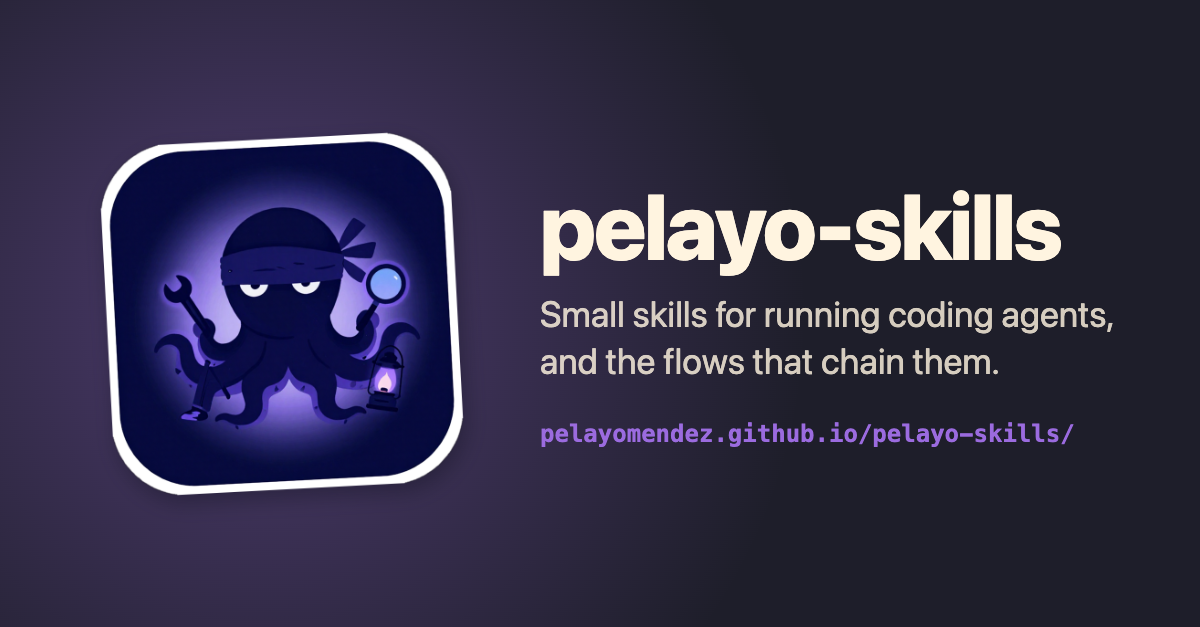
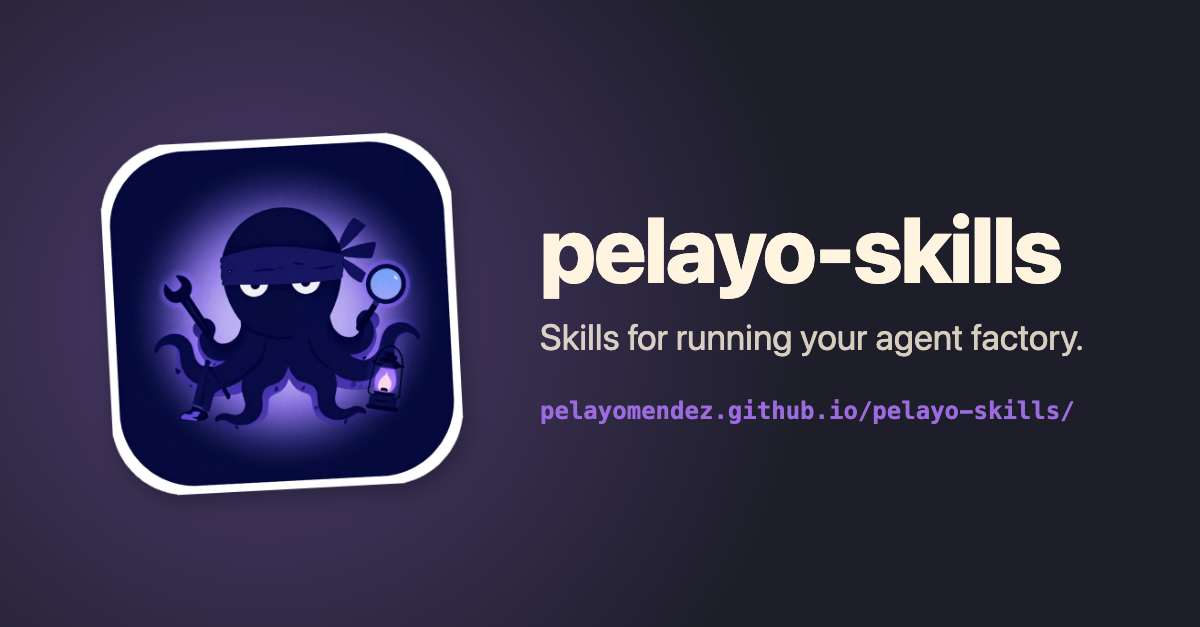
docs: frame the collection as skills for running an agent factory

Changed region(s): [[0.4317, 0.303, 0.925, 0.6061], [0.4317, 0.6364, 0.8942, 0.7273]]

diff --git a/docs/index.html b/docs/index.html
@@ -3,11 +3,11 @@
 <head>
   <meta charset="utf-8">
   <meta name="viewport" content="width=device-width, initial-scale=1">
-  <title>pelayo-skills · instructions and skills for coding agents</title>
-  <meta name="description" content="Small skills for running coding agents, and flows that chain them: a reporting style, a permission charter, backlog pruning and ordering, claim checks by a fresh agent, companion and overnight flows, and upkeep for the setup itself.">
+  <title>pelayo-skills · skills for running your agent factory</title>
+  <meta name="description" content="Skills for running your agent factory: plan the work, hand it out, check it, watch the line, hand over shifts, keep permissions in a charter and the setup tuned.">
   <link rel="icon" href="icon.png">
   <meta property="og:title" content="pelayo-skills">
-  <meta property="og:description" content="Small skills for running coding agents, and the flows that chain them.">
+  <meta property="og:description" content="Skills for running your agent factory.">
   <meta property="og:url" content="https://pelayomendez.github.io/pelayo-skills/">
   <meta property="og:image" content="https://pelayomendez.github.io/pelayo-skills/og.png">
   <meta property="og:image:width" content="1200">
@@ -42,7 +42,7 @@
   <header>
     <img src="icon.png" alt="">
     <h1>pelayo-skills</h1>
-    <p class="tag">Small units that each do one job, and flows that chain them. Each one labelled by how it starts: always on, when you type it, or when the agent picks it up.</p>
+    <p class="tag">Matt Pocock's skills are the machines. These run the plant: plan the work, hand it out, check it, keep the line running. Small units, chained into flows.</p>
     <p class="cta"><a class="primary" href="#install">Install</a><a href="https://github.com/pelayomendez/pelayo-skills">GitHub</a></p>
   </header>
 

diff --git a/README.md b/README.md
@@ -2,7 +2,20 @@
 
 # pelayo-skills
 
-Agent instructions and skills I use for real engineering work with coding agents. Small, composable, model-agnostic. [Landing page](https://pelayomendez.github.io/pelayo-skills/).
+Skills for running your agent factory: plan the work, hand it out, check it, keep the line running. [Landing page](https://pelayomendez.github.io/pelayo-skills/).
+
+Matt Pocock's [skills](https://github.com/mattpocock/skills) are the machines: how an agent designs, tests and reviews code. These run the plant around them:
+
+| In the factory | Skills |
+| --- | --- |
+| production planning | `backlog` |
+| work orders | `delegate` |
+| quality control | `verify-claim` |
+| control panel | `watch` |
+| permits and safety rules | `charter` |
+| shift handover | `handoff` |
+| the night shift and the day supervisor | `night-shift`, `ambient-companion` |
+| plant maintenance | `tidy`, `reap-procs` |
 
 ## What's inside
 
